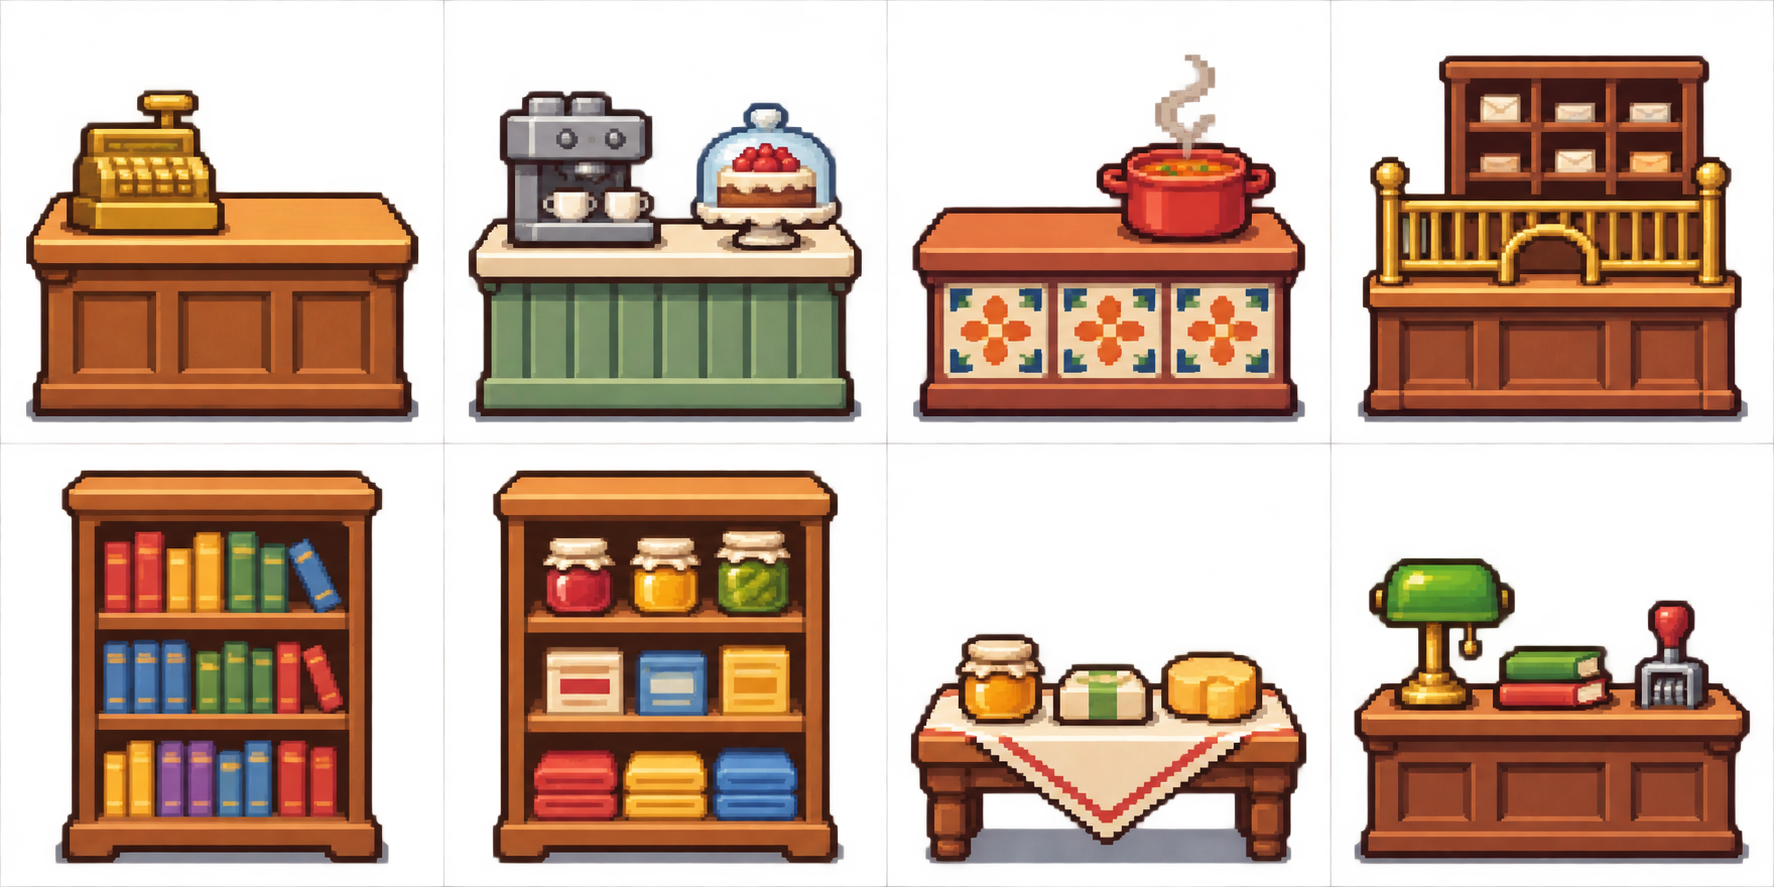
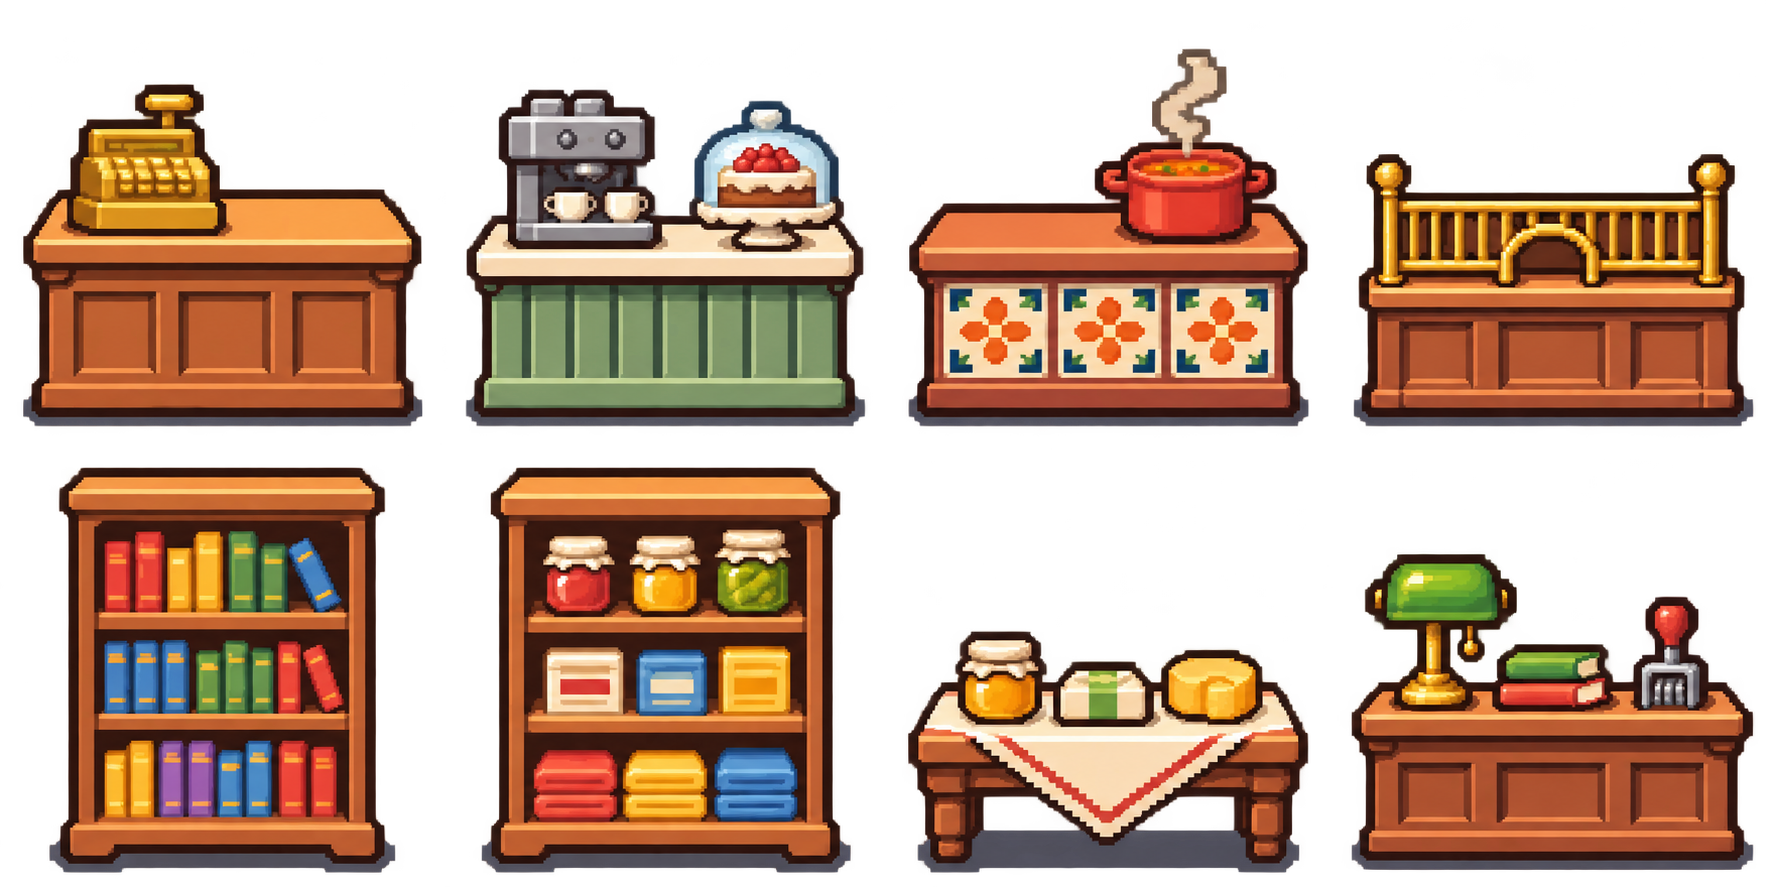
0.6.4: Mark's fixed interior pieces
Mark's second version of the Art Request 18 counters and shop-pieces
sheets, and the pigeonholes as their own wall piece. The Town Hall gets
the post office counter back with the pigeonholes behind it, so the mayor
shows; the Outfitters gets the coat display; the menu board's cup reads.

diff --git a/art/cleanup_report.md b/art/cleanup_report.md
@@ -1,7 +1,7 @@
 # Art cleanup report
 
 Made by tools/art_cleanup.py. palette from art/palette.json (33 colors). A picture cut pixel for pixel from a refresh sheet replaces any earlier picture of the same name.
-719 images passed, 1 failed.
+720 images passed, 1 failed.
 
 
 ## ChatGPT Image Nov 15, 2026, 07_04_59 AM.png (ground tiles)
@@ -949,18 +949,18 @@ Made by tools/art_cleanup.py. palette from art/palette.json (33 colors). A pictu
 - interior_window_shop_night: **pass** 32x32
 - interior_doormat: **pass** 32x16
 
-## raw_ar18_counters.png (Art Request 18, sheet 2: counters and shelves)
+## raw_ar18_counters.png (Art Request 18, sheet 2: counters and shelves (Mark's second version: the post counter without its pigeonholes))
 
 - int_shop_counter: **pass** 48x32
 - int_shop_counter_cafe: **pass** 48x32
 - int_shop_counter_restaurant: **pass** 48x32
-- int_post_counter: **pass** 48x48
+- int_post_counter: **pass** 48x32
 - int_bookcase: **pass** 32x48
 - int_goods_shelf: **pass** 32x48
 - int_display_table: **pass** 32x32
 - int_front_desk: **pass** 48x32
 
-## raw_ar18_shop_pieces.png (Art Request 18, sheet 3: each shop's own pieces): background removed cell by cell inside the grid lines
+## raw_ar18_shop_pieces.png (Art Request 18, sheet 3: each shop's own pieces (Mark's second version: transparent, a bolder chalk cup))
 
 - int_cafe_table: **pass** 32x32
 - int_menu_board: **pass** 32x24
@@ -991,6 +991,10 @@ Made by tools/art_cleanup.py. palette from art/palette.json (33 colors). A pictu
 - interior_picture_canoe: **pass** 16x20
 - interior_picture_bird: **pass** 16x20
 - interior_picture_pine: **pass** 16x20
+
+## raw_ar18_post_pigeonholes.png (Art Request 18 fix: the post office pigeonholes, a wall piece)
+
+- int_post_pigeonholes: **pass** 32x32
 
 ## calm_ground_a.png
 

diff --git a/README.md b/README.md
@@ -4,7 +4,7 @@ A cozy top-down pixel game about a park ranger in a vast, quietly magical
 wilderness. This repository holds phases one, 2a, 2b and 3. See `docs/` for the
 game bible, roadmap, phase specs and working rules.
 
-**Current version: 0.6.3** (see [Version history](#version-history)). The
+**Current version: 0.6.4** (see [Version history](#version-history)). The
 version shows on the title screen and in the debug panel, and V shows it in
 play.
 
@@ -101,6 +101,14 @@ docs/              bible, roadmap, specs, rules, status reports (hidden from God
 
 The version lives in `project.godot` (`application/config/version`). Every
 commit of the build raises it and adds a line here.
+
+### 0.6.4 (22 November 2026): Mark's fixed interior pieces
+
+- Mark's second version of Art Request 18's counters and shop-pieces sheets, and a new wall piece, `raw_ar18_post_pigeonholes.png`.
+- **The Town Hall** has the post office counter again, now just its brass grille (48 x 32), with the pigeonholes on the wall behind: the mayor shows behind his counter.
+- **The Outfitters** has the new coat display; the shop-pieces sheet now comes on a transparent background, so it cuts cleanly.
+- **The Percolator's menu board** shows its chalk cup, drawn bolder.
+- Screenshots: `docs/status/064_shots/`. Still waiting on code: the room's edge piece and the window light shaft.
 
 ### 0.6.3 (22 November 2026): Mark's Art Request 18 in the shops
 
